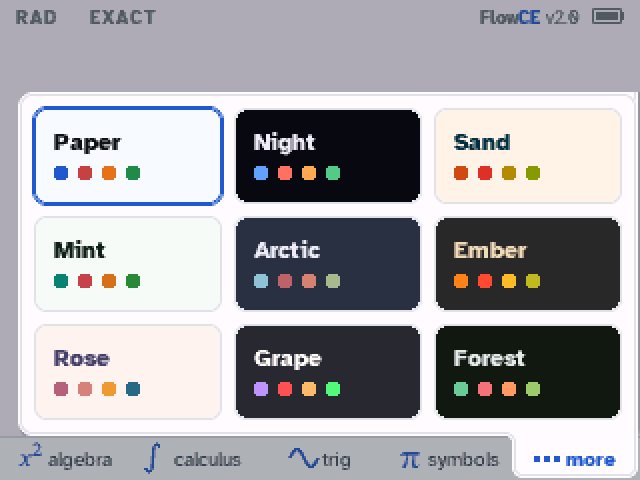
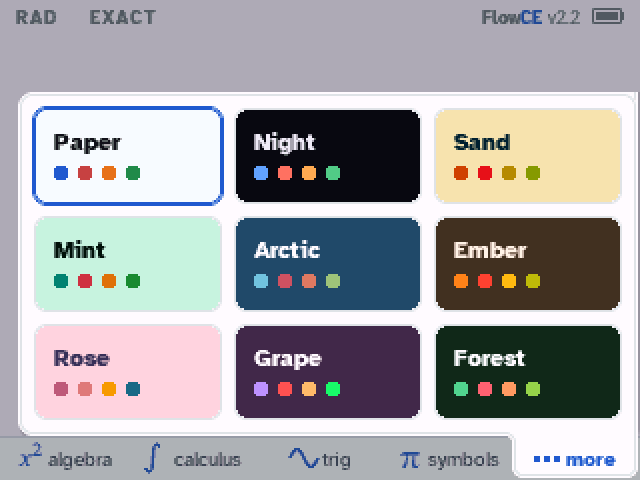
FlowCE 2.2: README and web page; the themes GIF and the themes card retaken
README "New in FlowCE 2.2", the versions table and Building; web page title, nav, pill and
What's new (a line for 2.2's themes). docs/flowce_themes.gif and docs/screenshots/themes_grid.png
recorded again from the 2.2 build (the others show themes 2.2 did not change).

diff --git a/site/index.html b/site/index.html
@@ -5,7 +5,7 @@
 <meta name="viewport" content="width=device-width, initial-scale=1">
 <title>FlowCE: calculus on your TI-84 Plus CE</title>
 <meta name="description" content="A free computer algebra system for the TI-84 Plus CE: exact answers in textbook form, step-by-step solutions for calculus and algebra, a graph screen, the applications of calculus, statistics and nine themes. Install it from this page.">
-<meta property="og:title" content="FlowCE 2.1: calculus on your TI-84 Plus CE">
+<meta property="og:title" content="FlowCE 2.2: calculus on your TI-84 Plus CE">
 <meta property="og:description" content="Exact answers in textbook form and every step to get there, a new graph screen, the applications of calculus, statistics and nine themes. Free and open source.">
 <meta property="og:image" content="media/screenshots/steps_parts.png">
 <link rel="icon" href="media/icon.svg" type="image/svg+xml">
@@ -20,7 +20,7 @@
   <div class="wrap top-in">
     <a class="wordmark" href="#">Flow<span>CE</span></a>
     <nav>
-      <a href="#new">New in 2.1</a>
+      <a href="#new">New in 2.2</a>
       <a href="#install">Install</a>
       <a href="#screens">Screens</a>
       <a href="https://github.com/tommyb3ll/FlowCE">GitHub</a>
@@ -31,7 +31,7 @@
 <main>
 <section class="hero wrap">
   <div class="hero-text">
-    <a class="pill" href="#new">New: FlowCE 2.1</a>
+    <a class="pill" href="#new">New: FlowCE 2.2</a>
     <h1><span class="wordmark big">Flow<span>CE</span></span></h1>
     <p class="lead">Calculus on your TI-84 Plus CE.</p>
     <p>Type math the way it looks. Get exact answers the way your textbook writes them, and every step to get there.</p>
@@ -53,8 +53,8 @@
  <details class="whatsnew" id="whatsnew">
   <summary>
     <span class="wn-text">
-      <h2>New in FlowCE 2.1</h2>
-      <span class="wn-sub">Faster: menus open in about half the time, and answers and steps come sooner. Since 2.0: steps for algebra as well as calculus, a real graph screen, the applications of calculus as forms you fill in, statistics, probability, and nine themes.</span>
+      <h2>New in FlowCE 2.2</h2>
+      <span class="wn-sub">Themes you can tell apart on the calculator's screen. Since 2.1: menus in about half the time, quicker answers and steps. Since 2.0: steps for algebra as well as calculus, a real graph screen, the applications of calculus as forms you fill in, statistics, probability, and nine themes.</span>
     </span>
     <span class="wn-more"><span class="wn-open">See what's new</span><span class="wn-close">Hide</span></span>
   </summary>
@@ -74,6 +74,7 @@
     </figure>
   </div>
   <ul class="news">
+    <li><strong>2.2, themes:</strong> Sand, Mint, Rose, Arctic, Ember, Grape and Forest have stronger colors, picked on a calculator, so its screen no longer shows several of them alike. Paper and Night are unchanged.</li>
     <li><strong>2.1 is faster:</strong> menus open in about half the time, everyday problems answer 25 to 45% sooner, the steps pages scroll twice as fast, and the probability page keeps up with the arrows. Same answers as 2.0.</li>
     <li><strong>Steps for algebra:</strong> equations by the formula, factoring, systems, logs and exponentials, trig equations, inequalities, absolute values, polynomial division.</li>
     <li><strong><code>analyze(f)</code>:</strong> domain, intercepts, asymptotes, extrema, concavity and inflections on one page.</li>

diff --git a/README.md b/README.md
@@ -26,6 +26,13 @@ step by step, the way a worked example in your textbook does.
 **[Install it from the FlowCE page](https://tommyb3ll.github.io/FlowCE/)**: plug in the calculator,
 pick a version, click Install, and follow the short calculator prompts.
 
+## New in FlowCE 2.2
+
+**Themes you can tell apart on the calculator.** Sand, Mint, Rose, Arctic, Ember, Grape and Forest
+have stronger colors: cream, mint, blush, blue slate, brown, plum and green. Their old shades were
+so close that the calculator's screen showed several of them alike. The new ones were picked on a
+TI-84 Plus CE; text is as readable as before, and Paper and Night are unchanged.
+
 ## New in FlowCE 2.1
 
 **Faster.** Menus open in about half the time, everyday problems answer 25 to 45% sooner, the
@@ -72,7 +79,7 @@ answers are the same as 2.0's.
 
 ## Two versions
 
-| | **FlowCE** 2.1 | **FlowCE Python** 1.9.1 |
+| | **FlowCE** 2.2 | **FlowCE Python** 1.9.1 |
 |---|---|---|
 | Step-by-step solutions | calculus (derivatives, integrals, limits, sums, Taylor series) and algebra (equations, factoring, systems, inequalities) | |
 | Graphs | the graph screen: key points, pan and zoom, conics, parametric, polar, slope fields | the classic graph, trace, table |
@@ -242,7 +249,7 @@ rules (some tests, like the ACT, don't allow one).
 
 ## Building
 
-FlowCE 2.1 builds with the [CE C/C++ toolchain](https://github.com/CE-Programming/toolchain) v15
+FlowCE 2.2 builds with the [CE C/C++ toolchain](https://github.com/CE-Programming/toolchain) v15
 plus `g++` and `python3`. Clone with `--recursive` (the engine is the `src/giac` submodule).
 `tools/dev/build.sh en-steps-v15` builds it in WSL from the working tree (`APPLANG=en STEPS=1`;
 `tools/dev/wsl_build_v15.sh` links the app and cuts it into the AppIns appvars installed by the
